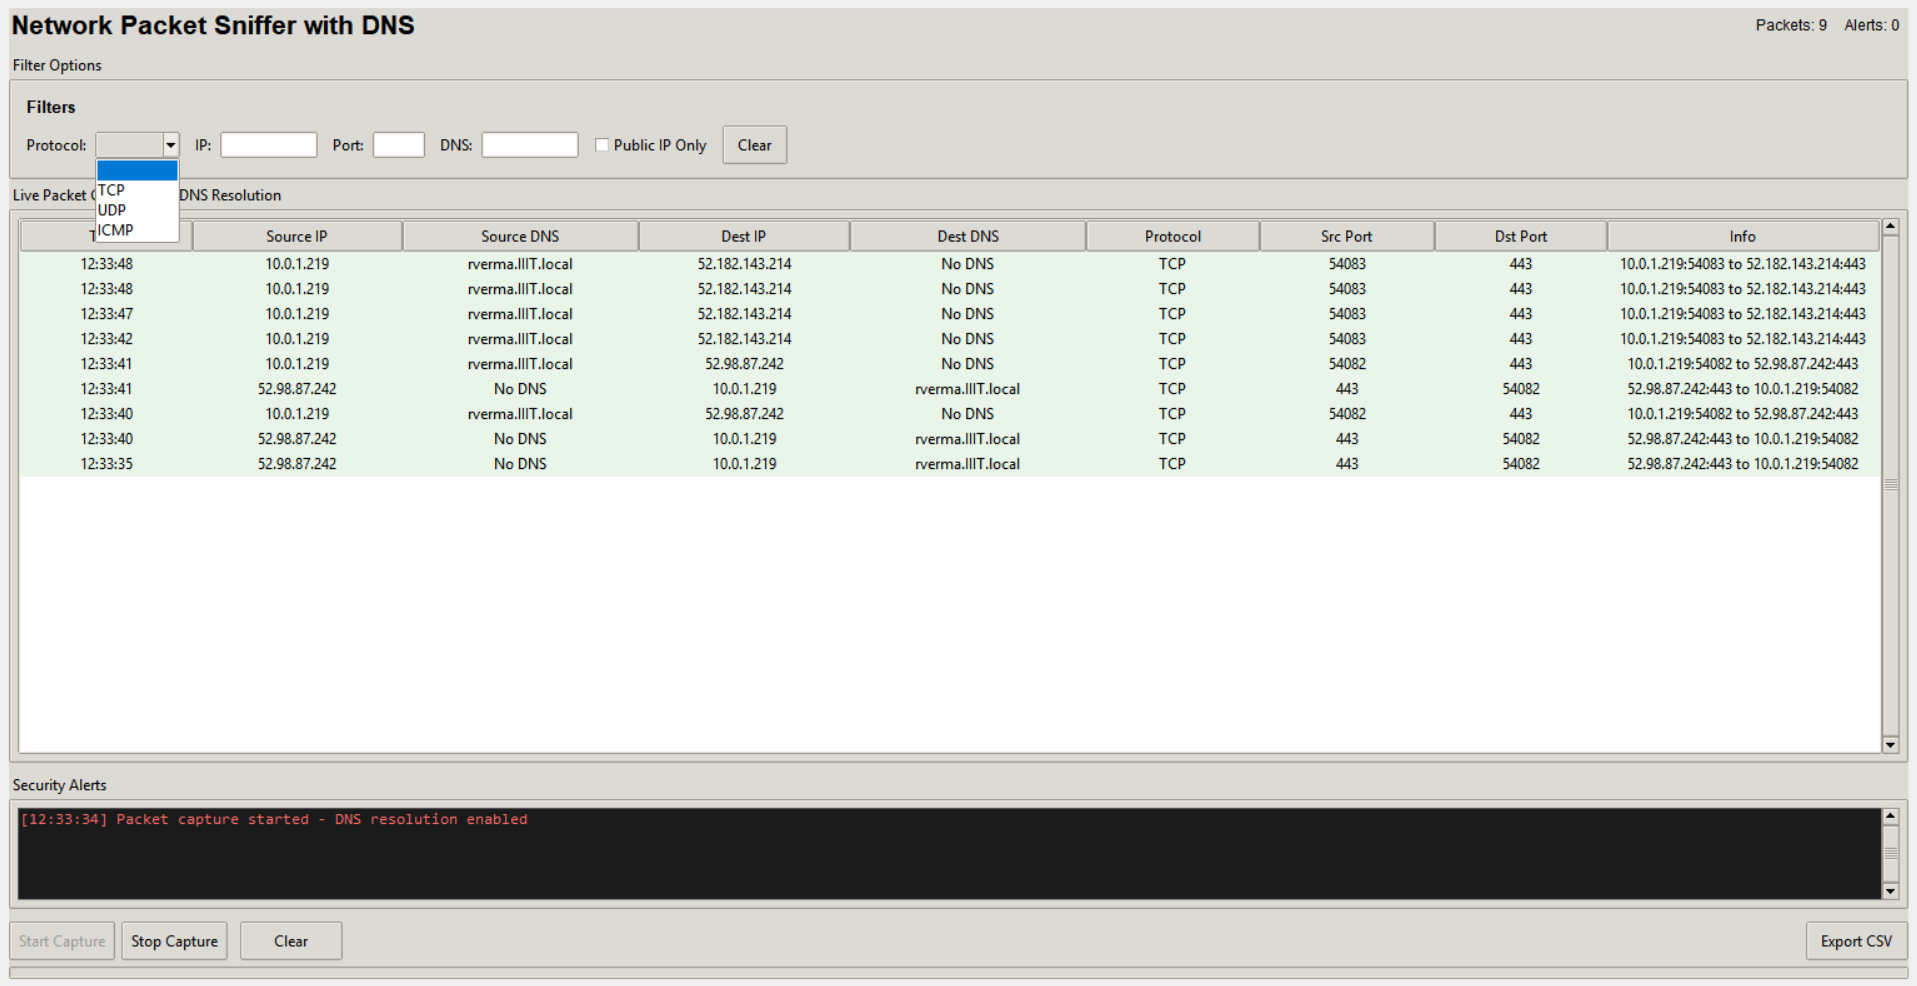
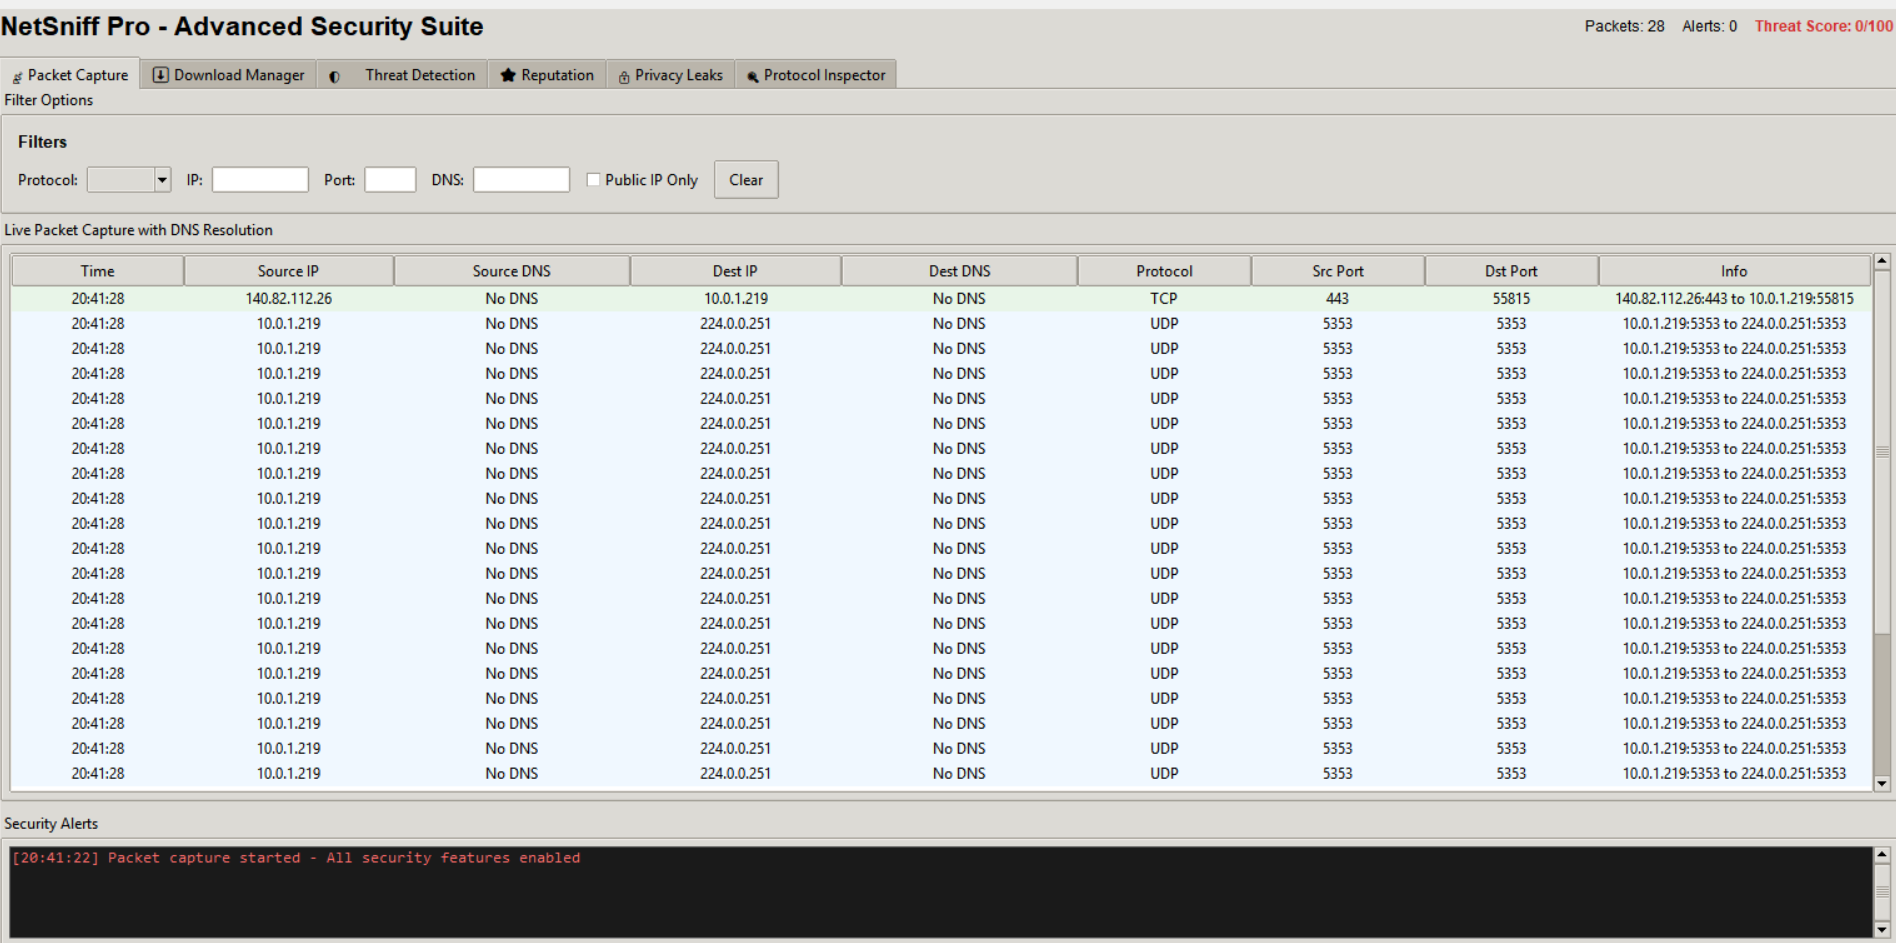
Updated Readme

diff --git a/README.md b/README.md
@@ -1,81 +1,225 @@
-# 🛡 NetSniff A Lightweight GUI-Based Packet Analyzer and Intrusion Detection Tool for Public IP Monitoring
+# 🛡 NetSniff Pro - Advanced Security Suite
 
-![Network Packet Sniffer UI](app.png)
+![NetSniff Pro Interface](app.png)
 
-## A modern, easy-to-use network packet sniffer and analyzer. Visualize live traffic, get real-time alerts for suspicious activity, and export your data. Built for clarity, speed, and extensibility.
+## A comprehensive network security monitoring and analysis platform with real-time threat detection, download management, and privacy leak monitoring.
+
+---
+
+## 🌟 Features
+
+### 📡 **Core Capabilities**
+
+- **Live Packet Capture** - Real-time monitoring of network traffic with DNS resolution
+- **Advanced Filtering** - Filter by protocol, IP, port, DNS, and public IP traffic
+- **Security Alerts** - Instant notifications for suspicious activity and threats
+- **CSV Export** - Export captured packets for further analysis
+
+### 🛡 **Security Features**
+
+- **Threat Detection** - Behavioral analysis based on connection patterns and port usage
+- **Download Manager** - Secure file downloads with VirusTotal integration
+- **Privacy Leak Detection** - Monitor plain-text transmission of credentials and sensitive data
+- **Reputation System** - Track and score IPs and domains based on behavior
+- **Protocol Inspector** - Deep HTTP/HTTPS traffic analysis
+
+### 🔒 **Advanced Protection**
+
+- Real-time malware scanning with VirusTotal API
+- Automatic blocking of suspicious domains and IPs
+- Detection of suspicious port usage (4444, 5555, 6666, 12345, 31337, etc.)
+- SSL certificate verification
+- File hash calculation and verification
+
+---
 
 ## 🚀 Quick Start with UV
 
 ### Windows
 
 1. **Install uv using WinGet:**
+   ```bash
    winget install --id=astral-sh.uv -e
-
-2. **Continue as below for all platforms:**
+   ```
 
 ### Linux / macOS
 
 - **Install via standalone script:**
+  ```bash
   curl -LsSf https://astral.sh/uv/install.sh | sh
-
+  ```
 - **Or with pipx:**
+  ```bash
   pipx install uv
+  ```
 
 ---
 
-## ⏬ Project Setup (all platforms)
+## ⏬ Project Setup (All Platforms)
 
-1. **Set up Python and dependencies:**
+1. **Clone the repository:**
+
+   ```bash
+   git clone <repository-url>
+   cd netsniff-pro
+   ```
+
+2. **Set up Python environment and dependencies:**
+
+   ```bash
    uv venv
    uv pip install -r requirements.txt
+   ```
 
-2. **Run the app:**
-   uv run main.py
+3. **Configure VirusTotal API (Optional but Recommended):**
+
+   - Create a `.env` file in the project root
+   - Add your VirusTotal API key:
+     ```
+     VIRUSTOTAL_API_KEY=your_key_here
+     ```
+   - Get a free API key at [VirusTotal](https://www.virustotal.com/gui/join-us)
+
+4. **Run the application:**
+   ```bash
+   uv run main_modular.py
+   ```
 
 ---
 
 ## 📦 Project Structure
 
-| File               | Description                                       |
-| ------------------ | ------------------------------------------------- |
-| `main.py`          | Launches and manages the NetSniff Pro application |
-| `network_utils.py` | Network and packet capture utilities              |
-| `ui_components.py` | All UI widgets and elements                       |
-| `data_manager.py`  | Packet storage, export, and filter logic          |
-| `requirements.txt` | All runtime dependencies                          |
+| File                        | Description                                 |
+| --------------------------- | ------------------------------------------- |
+| `main_modular.py`           | Main application launcher and coordinator   |
+| `network_utils.py`          | Network utilities and packet capture engine |
+| `security_manager.py`       | Core security analysis and threat detection |
+| `data_manager.py`           | Packet storage, filtering, and export logic |
+| **Tab Modules:**            |                                             |
+| `tab_packet_capture.py`     | Live packet capture and filtering UI        |
+| `tab_download_manager.py`   | Secure download management with scanning    |
+| `tab_threat_detection.py`   | Threat analysis and visualization           |
+| `tab_reputation.py`         | IP and domain reputation tracking           |
+| `tab_privacy_leak.py`       | Privacy leak detection and monitoring       |
+| `tab_protocol_inspector.py` | HTTP/HTTPS protocol analysis                |
+| `requirements.txt`          | Python dependencies                         |
+| `.env`                      | Configuration file (API keys)               |
 
 ---
 
-## 🧩 Features
+## 🎯 Key Features Breakdown
 
-- Live capture and display of IP/TCP/UDP/ICMP packets
-- Filters for protocol, IP, port, and public IP traffic
-- Real-time security alerts for suspicious traffic
-- CSV export of captured packets
-- Modern and readable interface
-- Modular, maintainable codebase
+### 1⃣ **Packet Capture Tab**
+
+- Real-time packet monitoring with DNS resolution
+- Advanced filtering: protocol, IP, port, DNS name
+- Color-coded protocol visualization (TCP, UDP, ICMP)
+- Suspicious port detection and alerts
+
+### 2⃣ **Download Manager Tab**
+
+- **Detected Downloads:** Automatically captures file downloads from network traffic
+- **Manual Downloads:** Secure download interface with:
+  - Pre-download URL scanning with VirusTotal
+  - Real-time progress monitoring
+  - Automatic threat blocking (configurable)
+  - File hash verification
+  - Speed monitoring
+
+### 3⃣ **Threat Detection Tab**
+
+- Behavioral threat analysis
+- Threat scoring system (0-100)
+- Classification: LOW, MEDIUM, HIGH severity
+- Historical threat tracking
+- Detailed threat reasoning
+
+### 4⃣ **Reputation System Tab**
+
+- **IP Reputation:** Track and score IP addresses
+- **Domain Reputation:** Monitor domain behavior
+- Dynamic scoring based on activity
+- Trusted/Suspicious/Blocked classification
+
+### 5⃣ **Privacy Leak Detector Tab**
+
+- Monitors plain-text credential transmission
+- Detects keywords: password, token, api_key, secret, etc.
+- Severity classification (HIGH/MEDIUM)
+- Real-time alerts for sensitive data exposure
+
+### 6⃣ **Protocol Inspector Tab**
+
+- HTTP/HTTPS request/response monitoring
+- User-Agent tracking
+- URL analysis
+- Protocol statistics and encryption ratios
 
 ---
 
-## 🛠 Future Enhancements
+## 🔧 Building Standalone Executable
 
-> **Next:**  
-> Integrate advanced AI-assisted (aai) tools for better intrusion detection and deeper port/protocol analysis.
+Build a standalone `.exe` for Windows:
 
-Ideas:
+```bash
+uv pip install pyinstaller
+pyinstaller main_modular.spec
+```
 
-- Use AI/ML models for anomaly detection and traffic classification
-- Smart port intelligence and risk ranking
-- Integration with open source threat intelligence feeds
-
----
-
-## 🏁 Usage Notes
-
-- Run as administrator/root for full packet capture.
-- For any issues, suggestions, or to contribute, open an issue or PR.
-- We also have provided an exe to check the implementation locally
+The executable will be created in the `dist/` folder.
 
 ---
 
-**Happy sniffing!**
+## 🛠 Usage Notes
+
+- **Administrator/Root Access:** Required for full packet capture capabilities
+- **VirusTotal API:** Optional but highly recommended for download scanning
+- **Network Interface:** Automatically detects and uses the active network interface
+- **Data Export:** All captured packets can be exported to CSV format
+- **Real-time Monitoring:** All statistics and alerts update in real-time
+
+---
+
+## 🔐 Security & Privacy
+
+- **No Data Collection:** All analysis happens locally on your machine
+- **API Keys:** Stored securely in `.env` file (never committed to version control)
+- **Privacy First:** Download scanning is optional and can be disabled
+- **Transparent:** All source code is open and auditable
+
+---
+
+## 🚧 Future Enhancements
+
+> **Roadmap:**
+>
+> - ML-based anomaly detection for advanced threat identification
+> - Integration with multiple threat intelligence feeds
+> - Network topology visualization
+> - Custom rule engine for threat detection
+> - Extended protocol support (FTP, SMTP, SSH)
+> - Packet replay and analysis tools
+> - Export to multiple formats (JSON, PCAP)
+
+---
+
+## 📋 Requirements
+
+- Python 3.8+
+- Administrator/Root privileges (for packet capture)
+- Windows: Npcap or WinPcap installed
+- Linux: libpcap installed
+- macOS: Built-in packet capture support
+
+### Key Dependencies:
+
+- `scapy` - Packet capture and analysis
+- `tkinter` - GUI framework
+- `python-dotenv` - Environment configuration
+- `urllib3` - HTTP requests for API calls
+
+---
+
+---
+
+**Happy monitoring! 🔍🛡**
